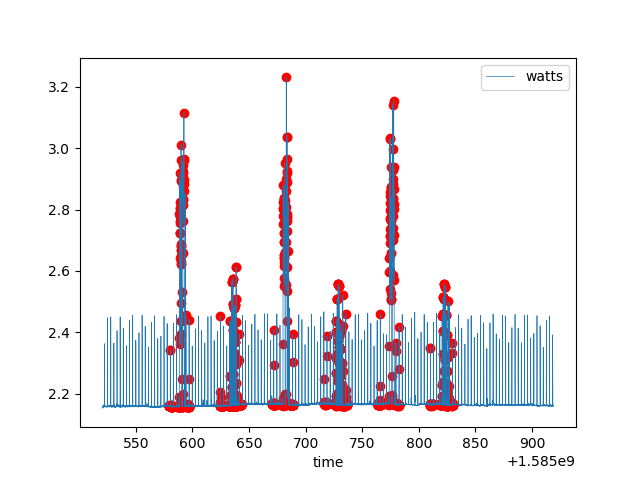
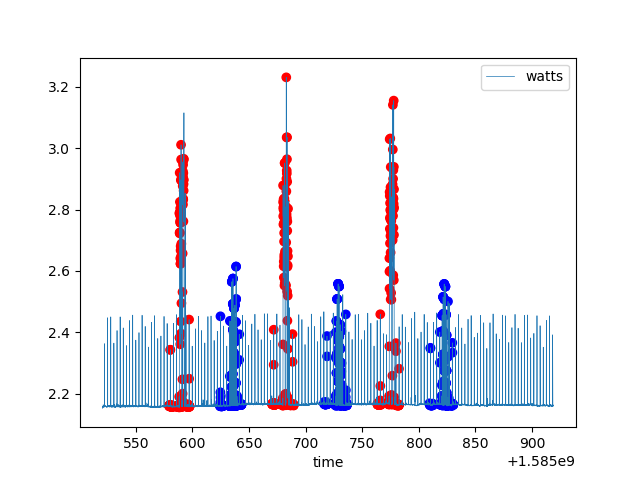
change graph color based on task

diff --git a/energy_comparison/test_under_construction/test.py b/energy_comparison/test_under_construction/test.py
@@ -9,6 +9,7 @@ import matplotlib.patches as mpatches
 import sys
 import math
 
+
 def readCSV(fileList):
     inaFileName = [k for k in fileList if 'ina' in k]
     inaData = pd.read_csv(inaFileName[0], dtype={"time": float})
@@ -33,23 +34,28 @@ def readSelemium(fileList):
 def wattComparison(inaData, selRawData):
     selWatts = []
     selTimes = []
-    for selTime in selRawData.time:
+    taskTypes = []
+
+    for taskType, selTime in zip(selRawData.task, selRawData.time):
         for inaWatt, inaTime in zip(inaData.watts, inaData.time):
             if math.isclose(selTime, inaTime, rel_tol=0.000000001):
-                print("sel: " + str(selTime))
-                print("ina: " + str(inaTime))
-                print(inaWatt)
+                #print("sel: " + str(selTime))
+                #print("ina: " + str(inaTime))
+                #print(inaWatt)
+                taskTypes.append(taskType)
                 selTimes.append(inaTime)
                 selWatts.append(inaWatt)
 
-    selData = pd.DataFrame({"watts": selWatts, "time": selTimes})
-    print(selData.head())
+    selData = pd.DataFrame({"watts": selWatts, "time": selTimes, "task": taskTypes})
+    #print(selData)
 
     # graph
+    colors = {'0':'red', '1':'blue'}
     inaData.plot(x='time', y='watts', linewidth = 0.5)
-    plt.scatter(x=selData.time, y=selData.watts, c='red')
+    plt.scatter(x=selData.time, y=selData.watts, c=selData.task.str[0].apply(lambda x: colors[x]))
     #plt.show()
     plt.savefig('watts.png')
+    
 
 def voltageComparison(inaData, selRawData):
     selVolts = []
@@ -94,7 +100,6 @@ def currentComparison(inaData, selRawData):
     plt.savefig('currents.png')
 
 
-# In[2]:
 def aggregate(path=""):
     #testDirPath = path + "/"
     #fileList = glob.glob(testDirPath + "*.csv")
@@ -109,7 +114,7 @@ def aggregate(path=""):
 
     # save a png comparing watts/volts/currents between large and small images
     # depends on timeframe of ina and selenium data
-    #wattComparison(inaData, selRawData)
+    wattComparison(inaData, selRawData)
     #voltageComparison(inaData, selRawData)
     #currentComparison(inaData, selRawData)
 
